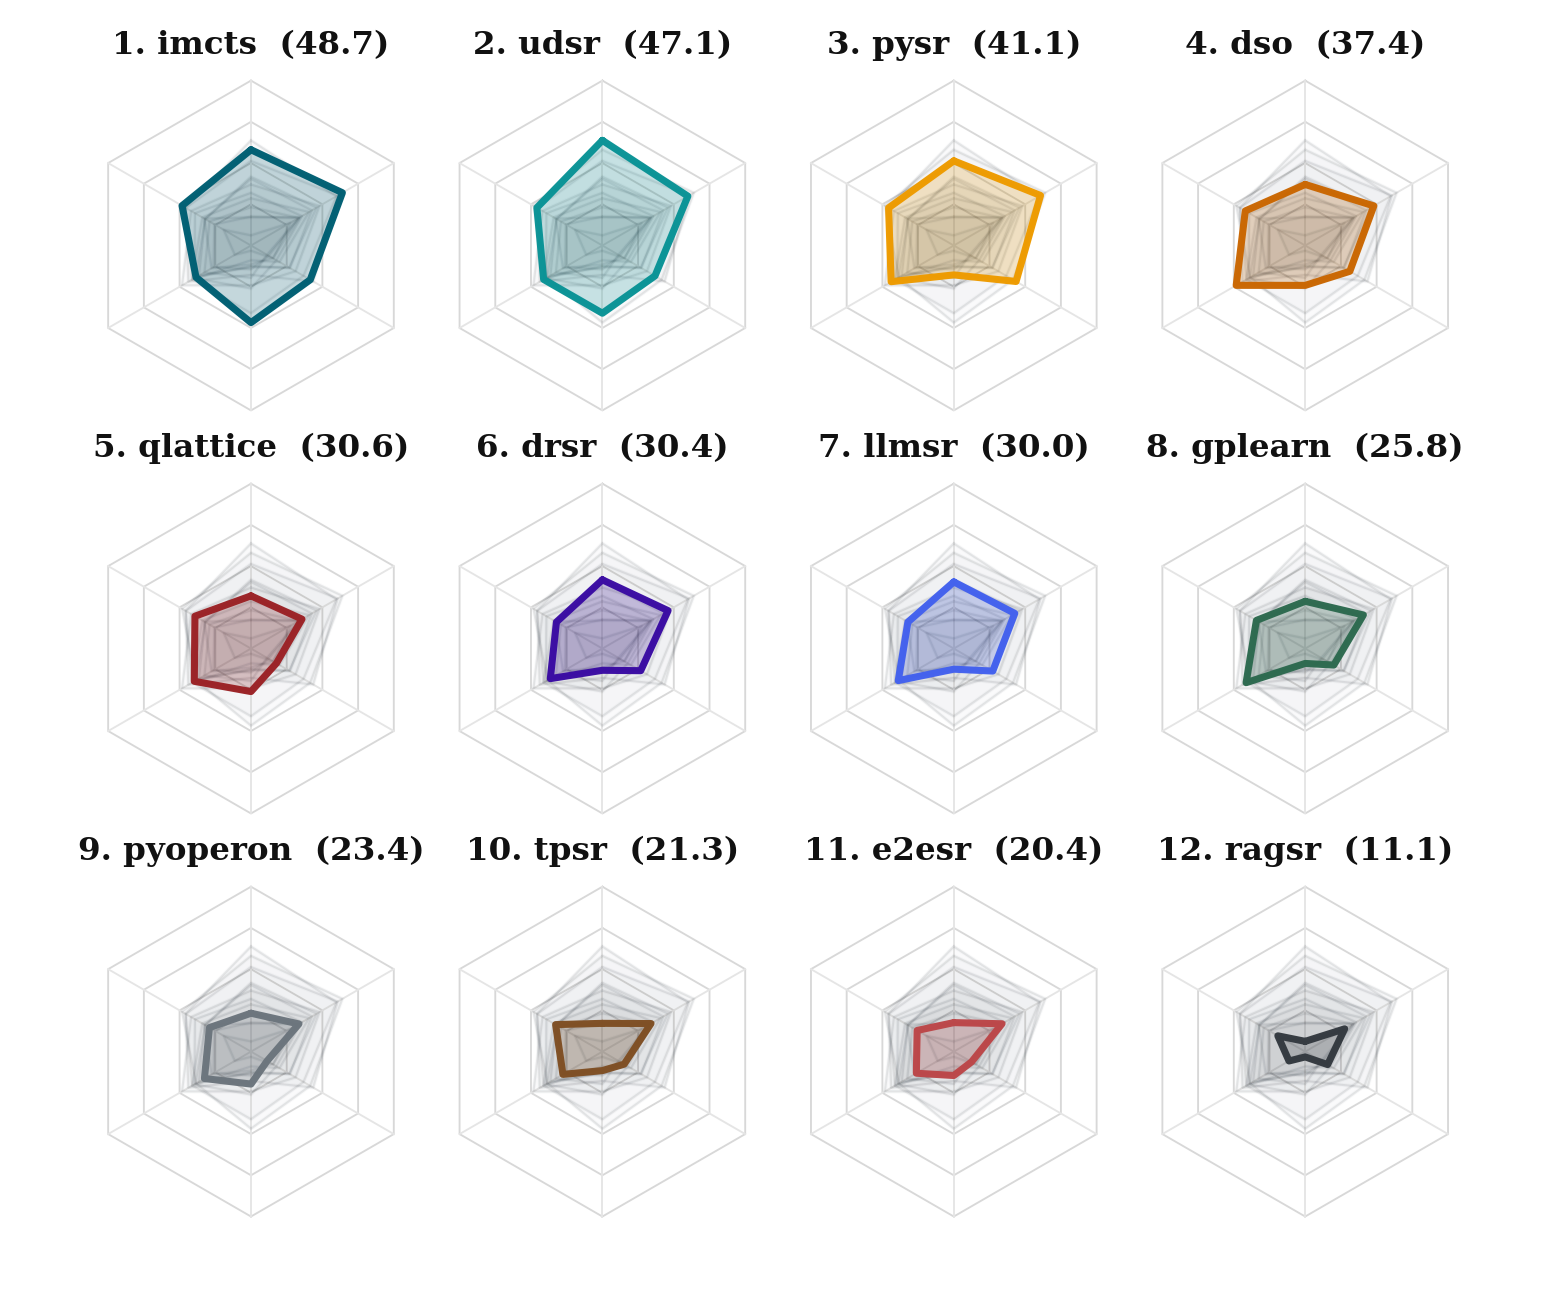
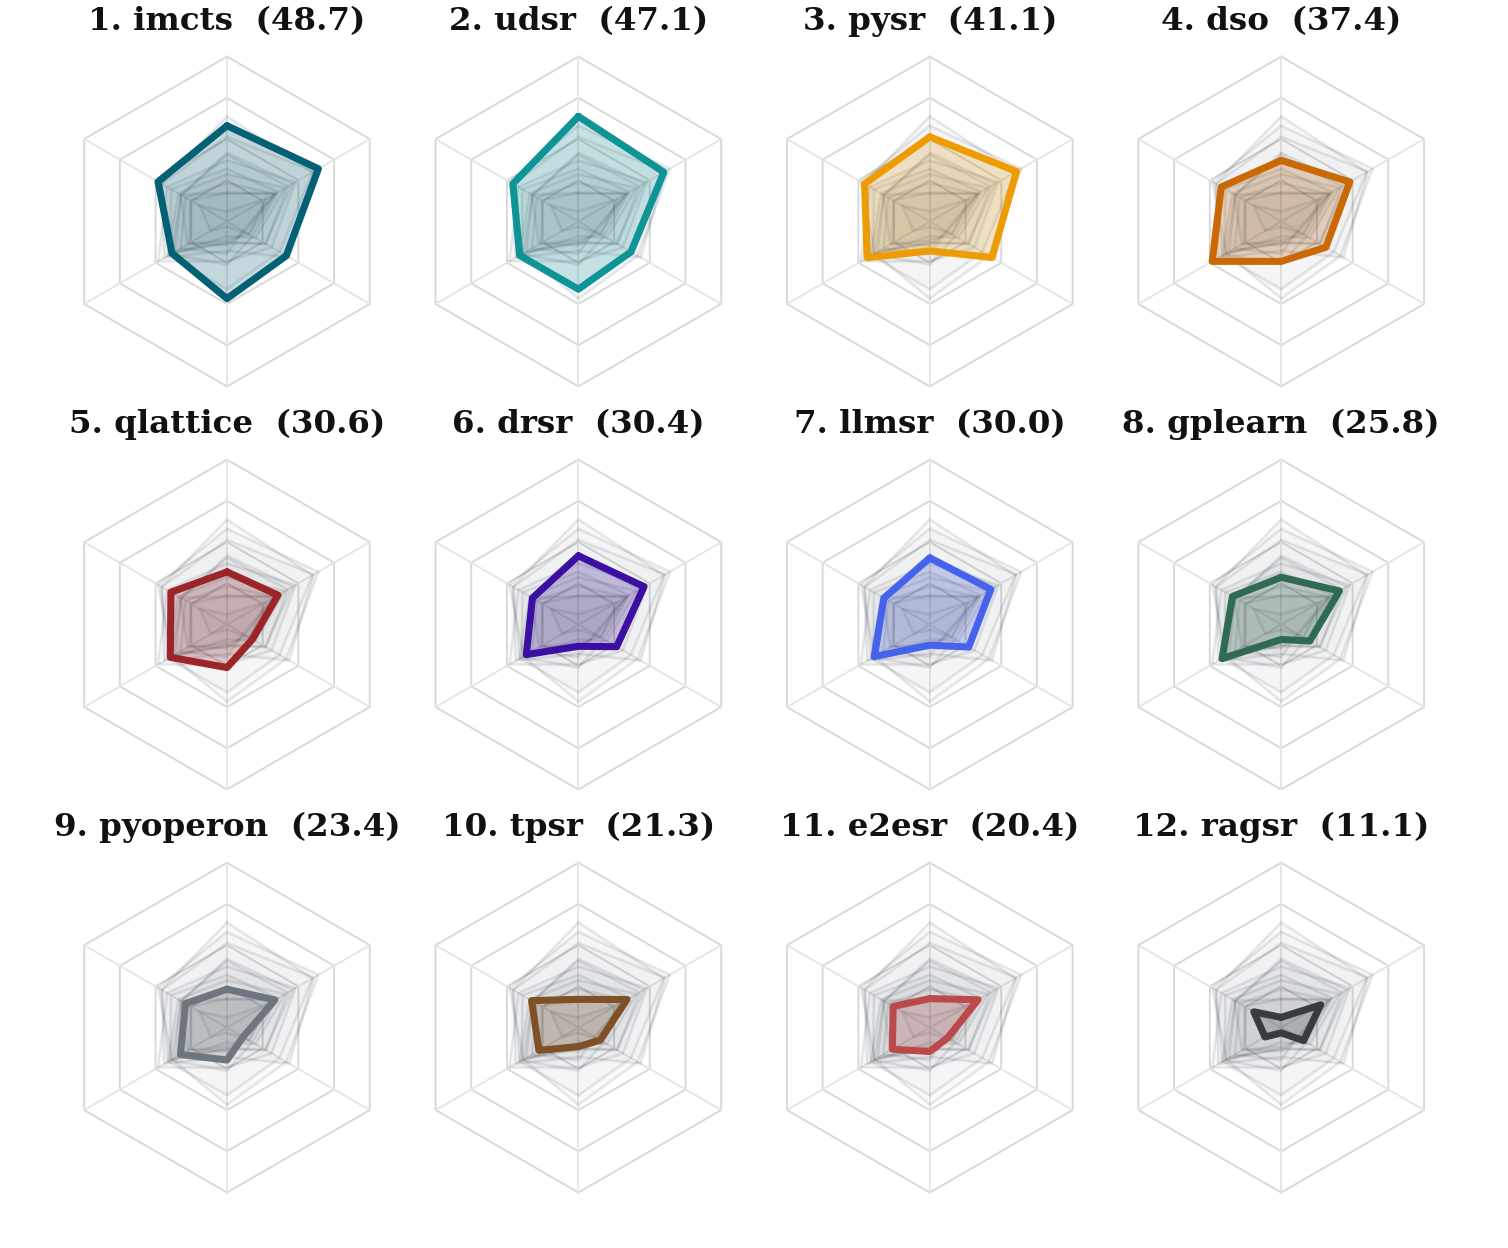
[update] 减少六轴小图外边距

diff --git a/check/plot_hexagon_small_multiples_neurips.py b/check/plot_hexagon_small_multiples_neurips.py
@@ -29,6 +29,7 @@ AXIS_LABELS = ["ID-Q", "OOD-G", "SYM-F", "EFF", "ROBU", "STAB"]
 SCORE_COL = "HexaScore_formal_with_ROB"
 GRID_SCORE_LEVELS = [0.25, 0.50, 0.75, 1.00]
 HIGHLIGHT_FILL_ALPHA = 0.20
+SAVE_PAD_INCHES = 0.02
 HIGHLIGHT_COLORS = [
     "#005f73",
     "#0a9396",
@@ -157,8 +158,8 @@ def render_small_multiples(
 
     out_png = ANALYSIS_OUT / out_name
     out_pdf = out_png.with_suffix(".pdf")
-    fig.savefig(out_png, dpi=300, bbox_inches="tight")
-    fig.savefig(out_pdf, bbox_inches="tight")
+    fig.savefig(out_png, dpi=300, bbox_inches="tight", pad_inches=SAVE_PAD_INCHES)
+    fig.savefig(out_pdf, bbox_inches="tight", pad_inches=SAVE_PAD_INCHES)
     plt.close(fig)
 
     paper_png = PAPER_IMGS / out_png.name
@@ -183,6 +184,7 @@ def render_small_multiples(
         "highlight_fill_alpha": HIGHLIGHT_FILL_ALPHA,
         "layout_wspace": wspace,
         "layout_hspace": hspace,
+        "save_pad_inches": SAVE_PAD_INCHES,
         "axis_labels": "caption_only",
         "axis_order_clockwise_from_top": AXIS_LABELS,
         "radial_scale": "linear: r=score/100",
